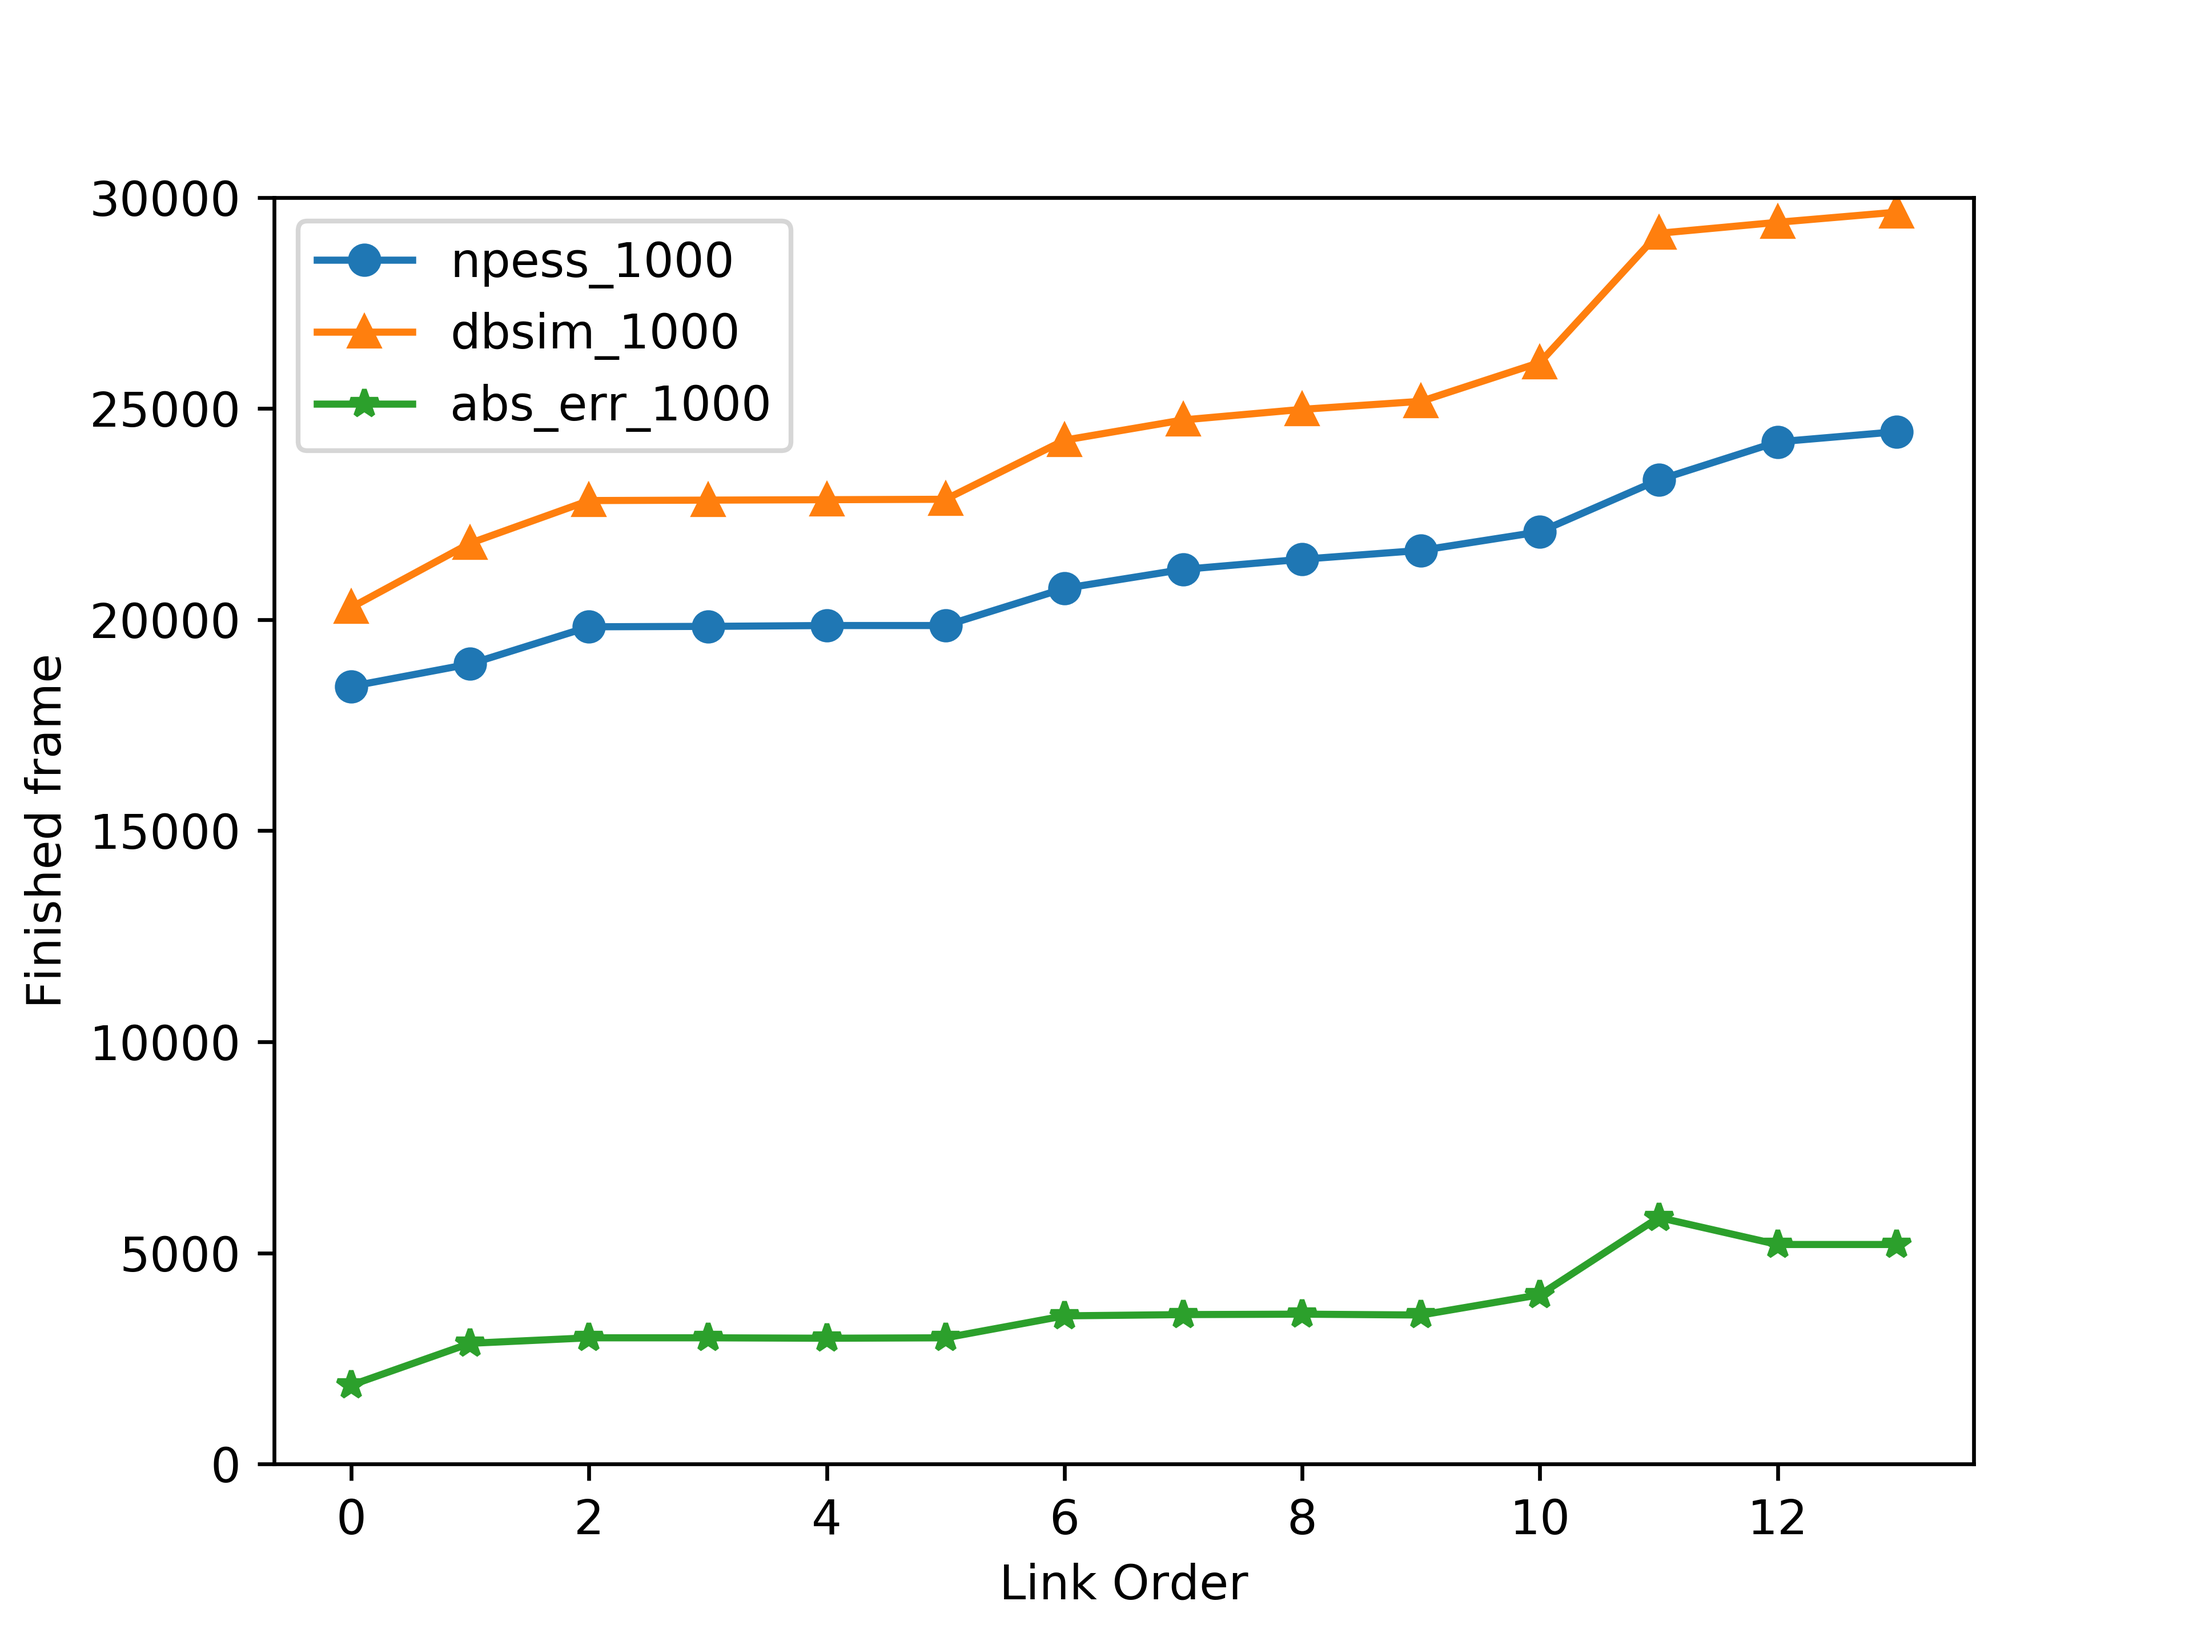
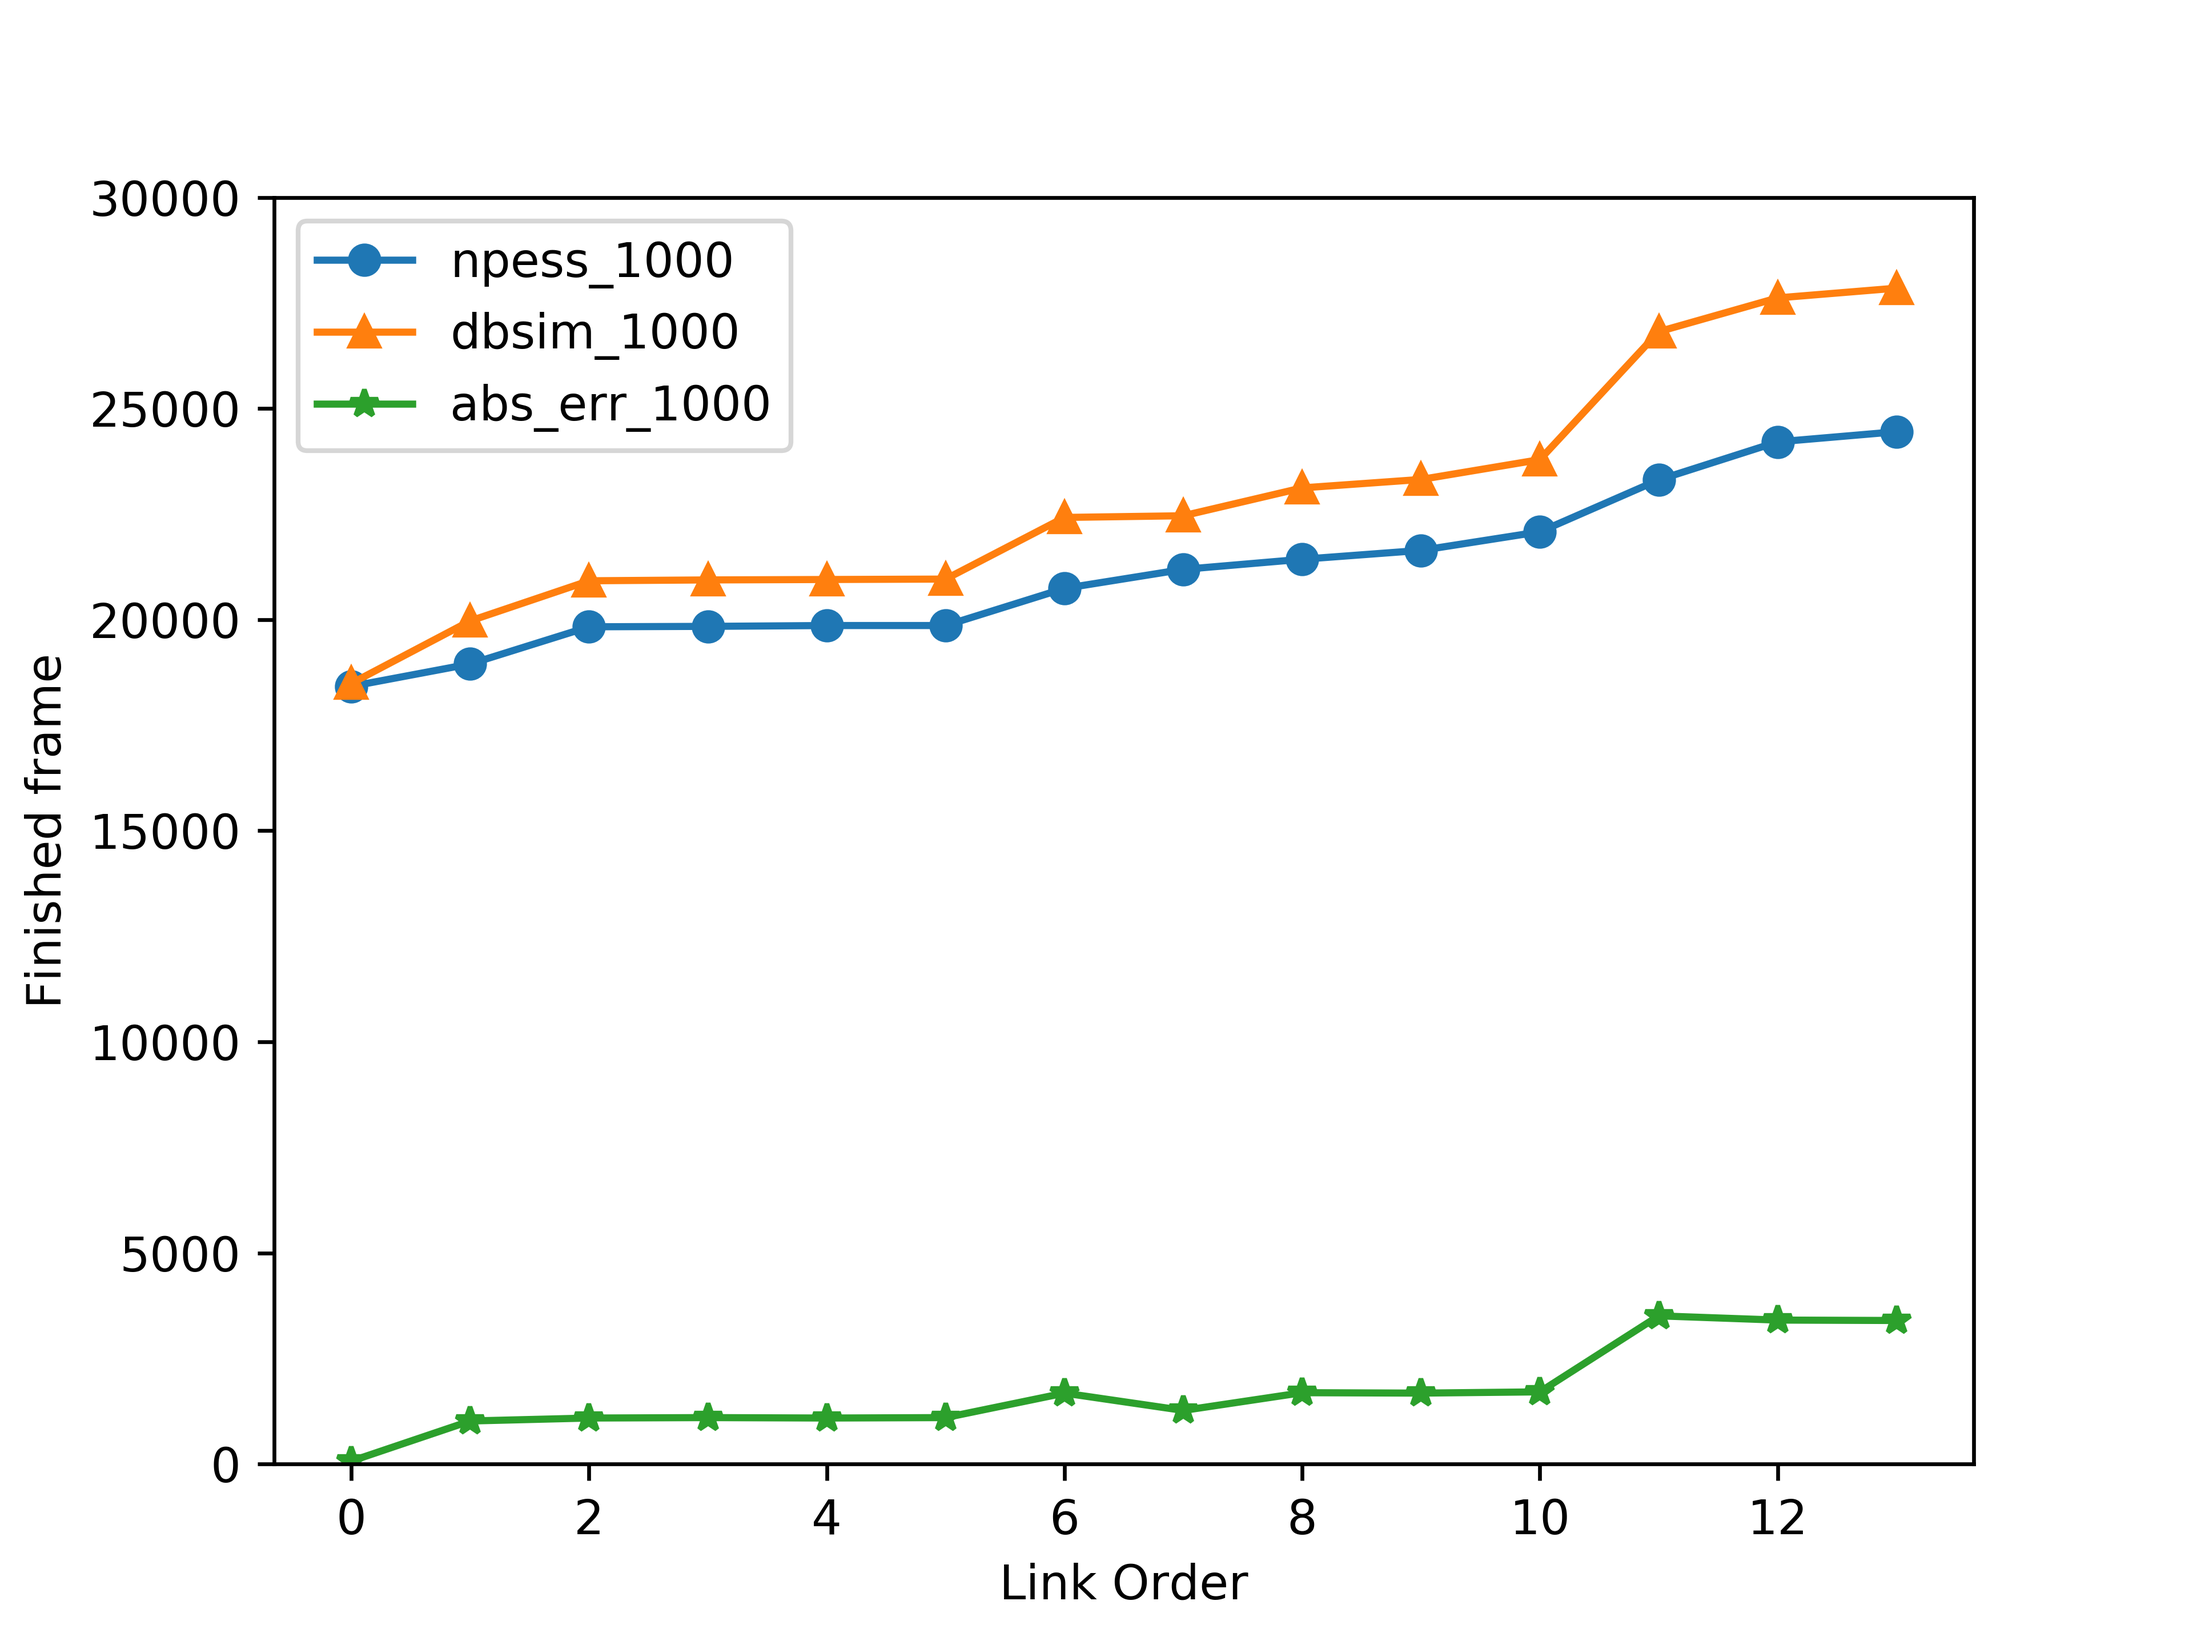
update error for each length

diff --git a/train/pipeline.py b/train/pipeline.py
@@ -25,7 +25,7 @@ def compare_totalnum(link_id):
 
     plt.plot(df_train['frame'], df_train['totalnum'],lw = 0.8, label=str(link_id) + '_origin')
     plt.plot(df_sim['frame'],df_sim['totalnum'],lw = 0.8, label=str(link_id) + '_dbsim')
-    plt.plot(df_sim['frame'][:length], abs_err, lw = 0.5, label=str(link_id)+ '_abs_error')
+    #plt.plot(df_sim['frame'][:length], abs_err, lw = 0.5, label=str(link_id)+ '_abs_error')
     plt.legend(loc = 'upper right')
     plt.legend(loc = 'best')
     plt.xlabel('frame')

diff --git a/train/compare.py b/train/compare.py
@@ -74,4 +74,4 @@ def compare_carnum():
     plt.clf();
 
 compare_len()
-#compare_carnum()
+compare_carnum()
